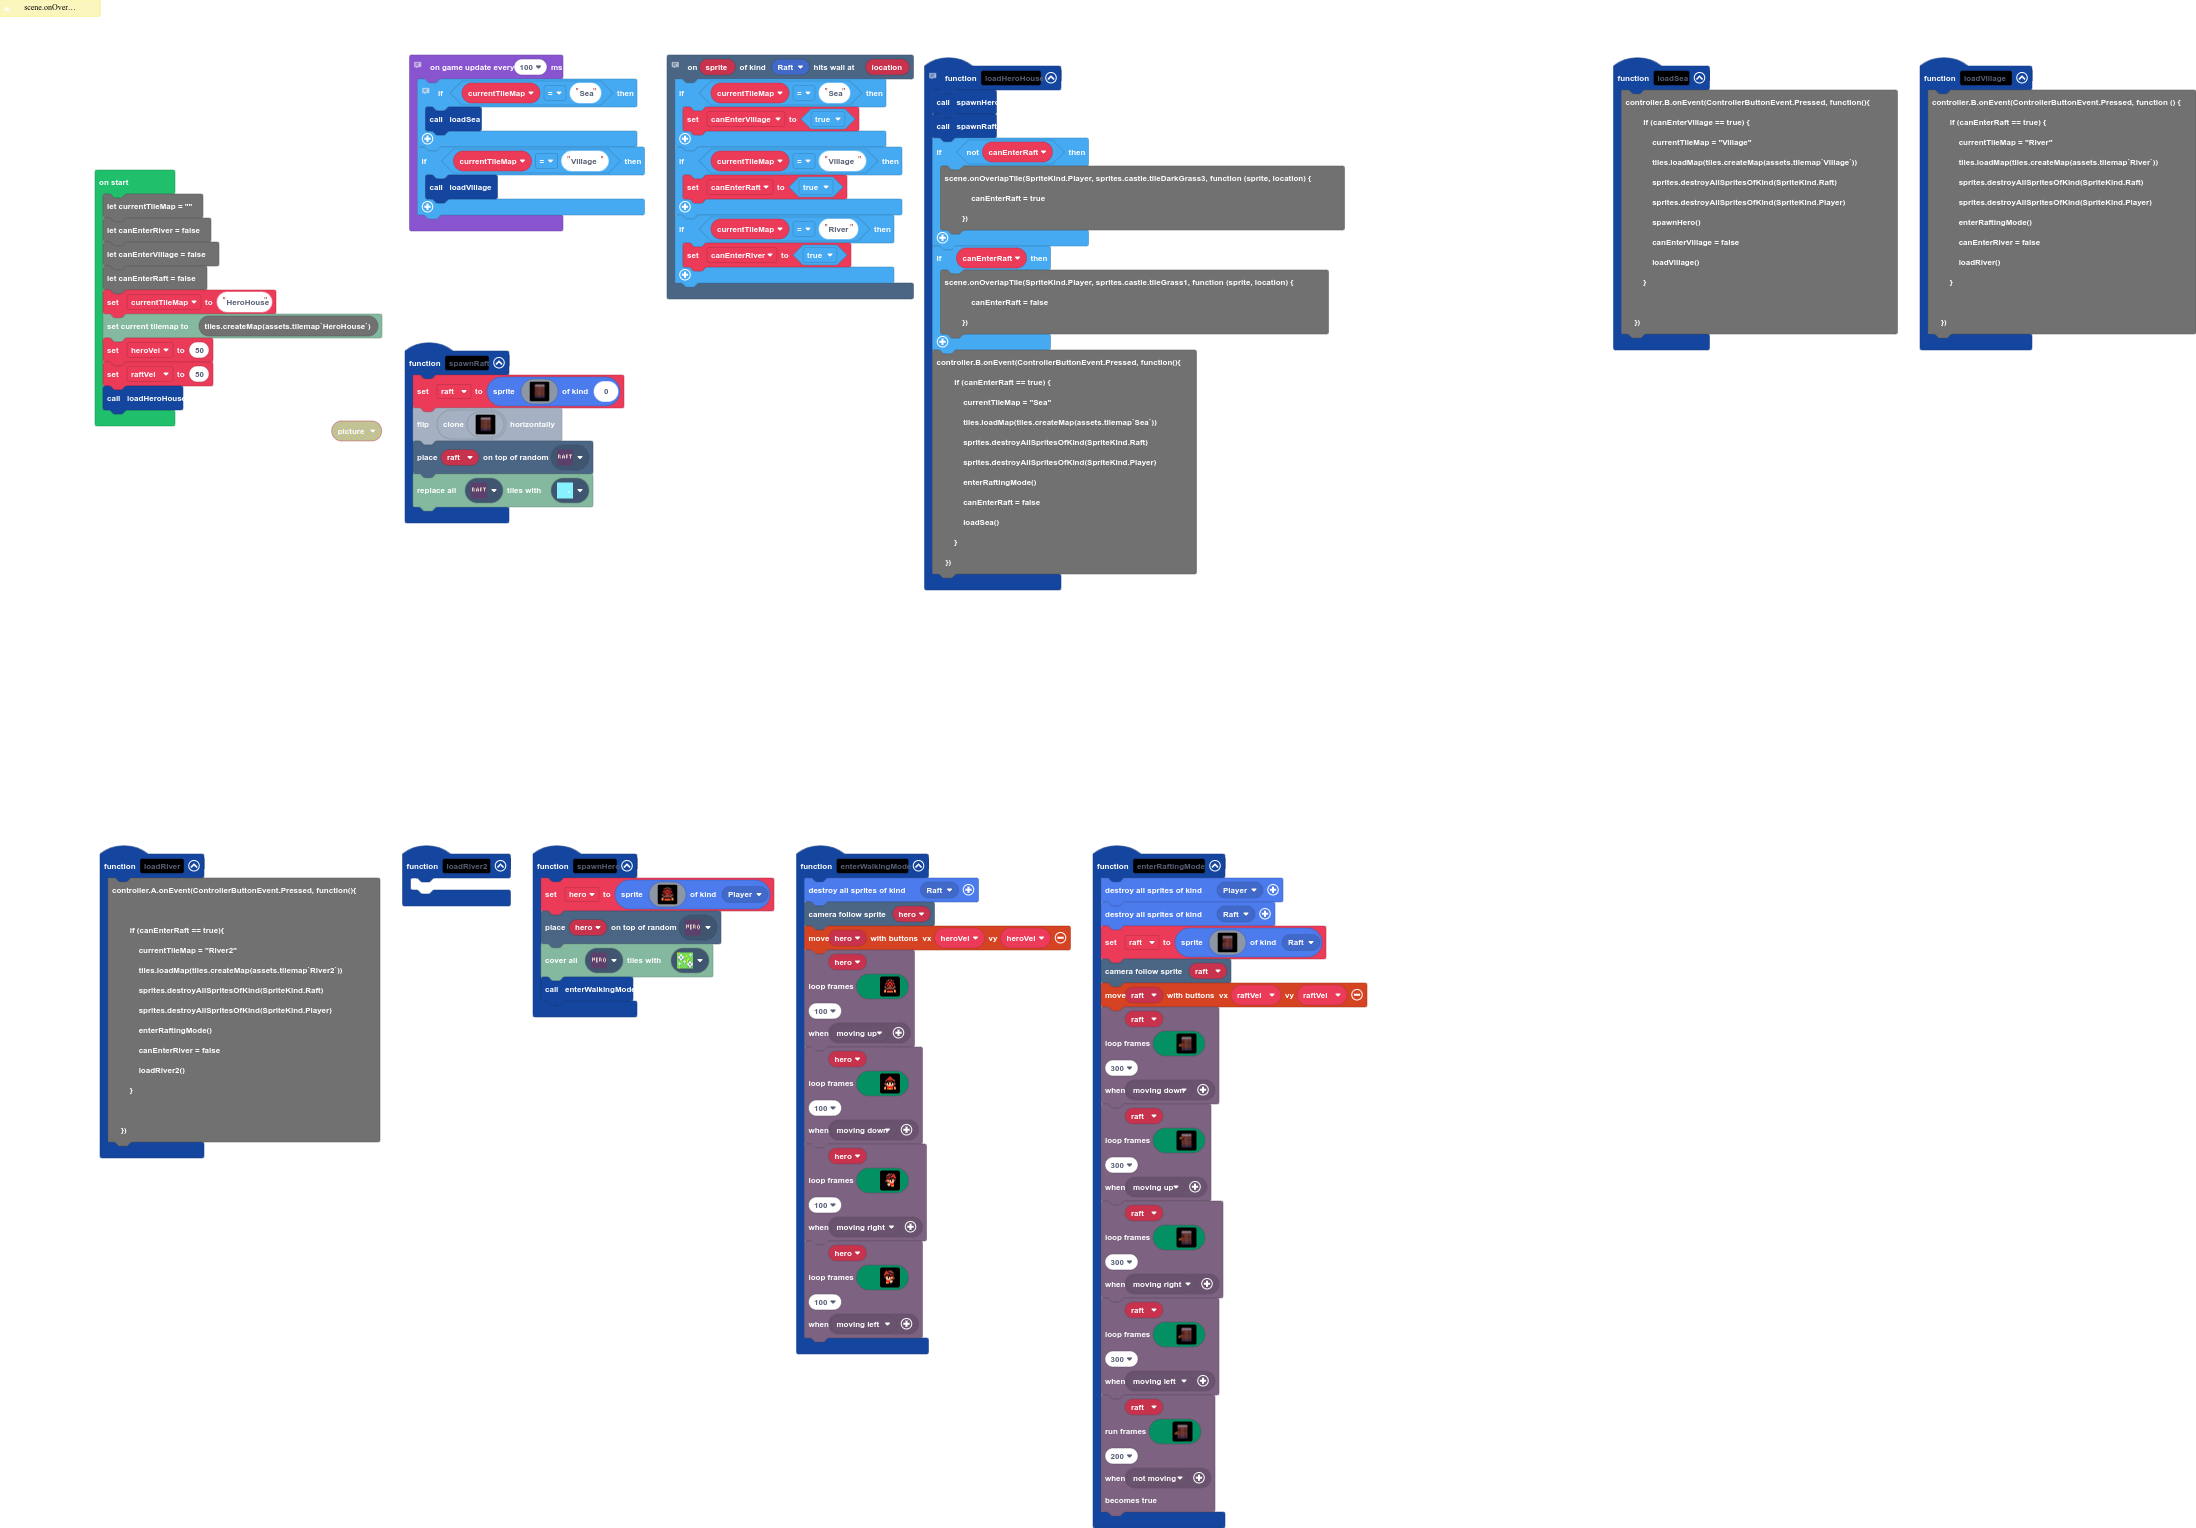
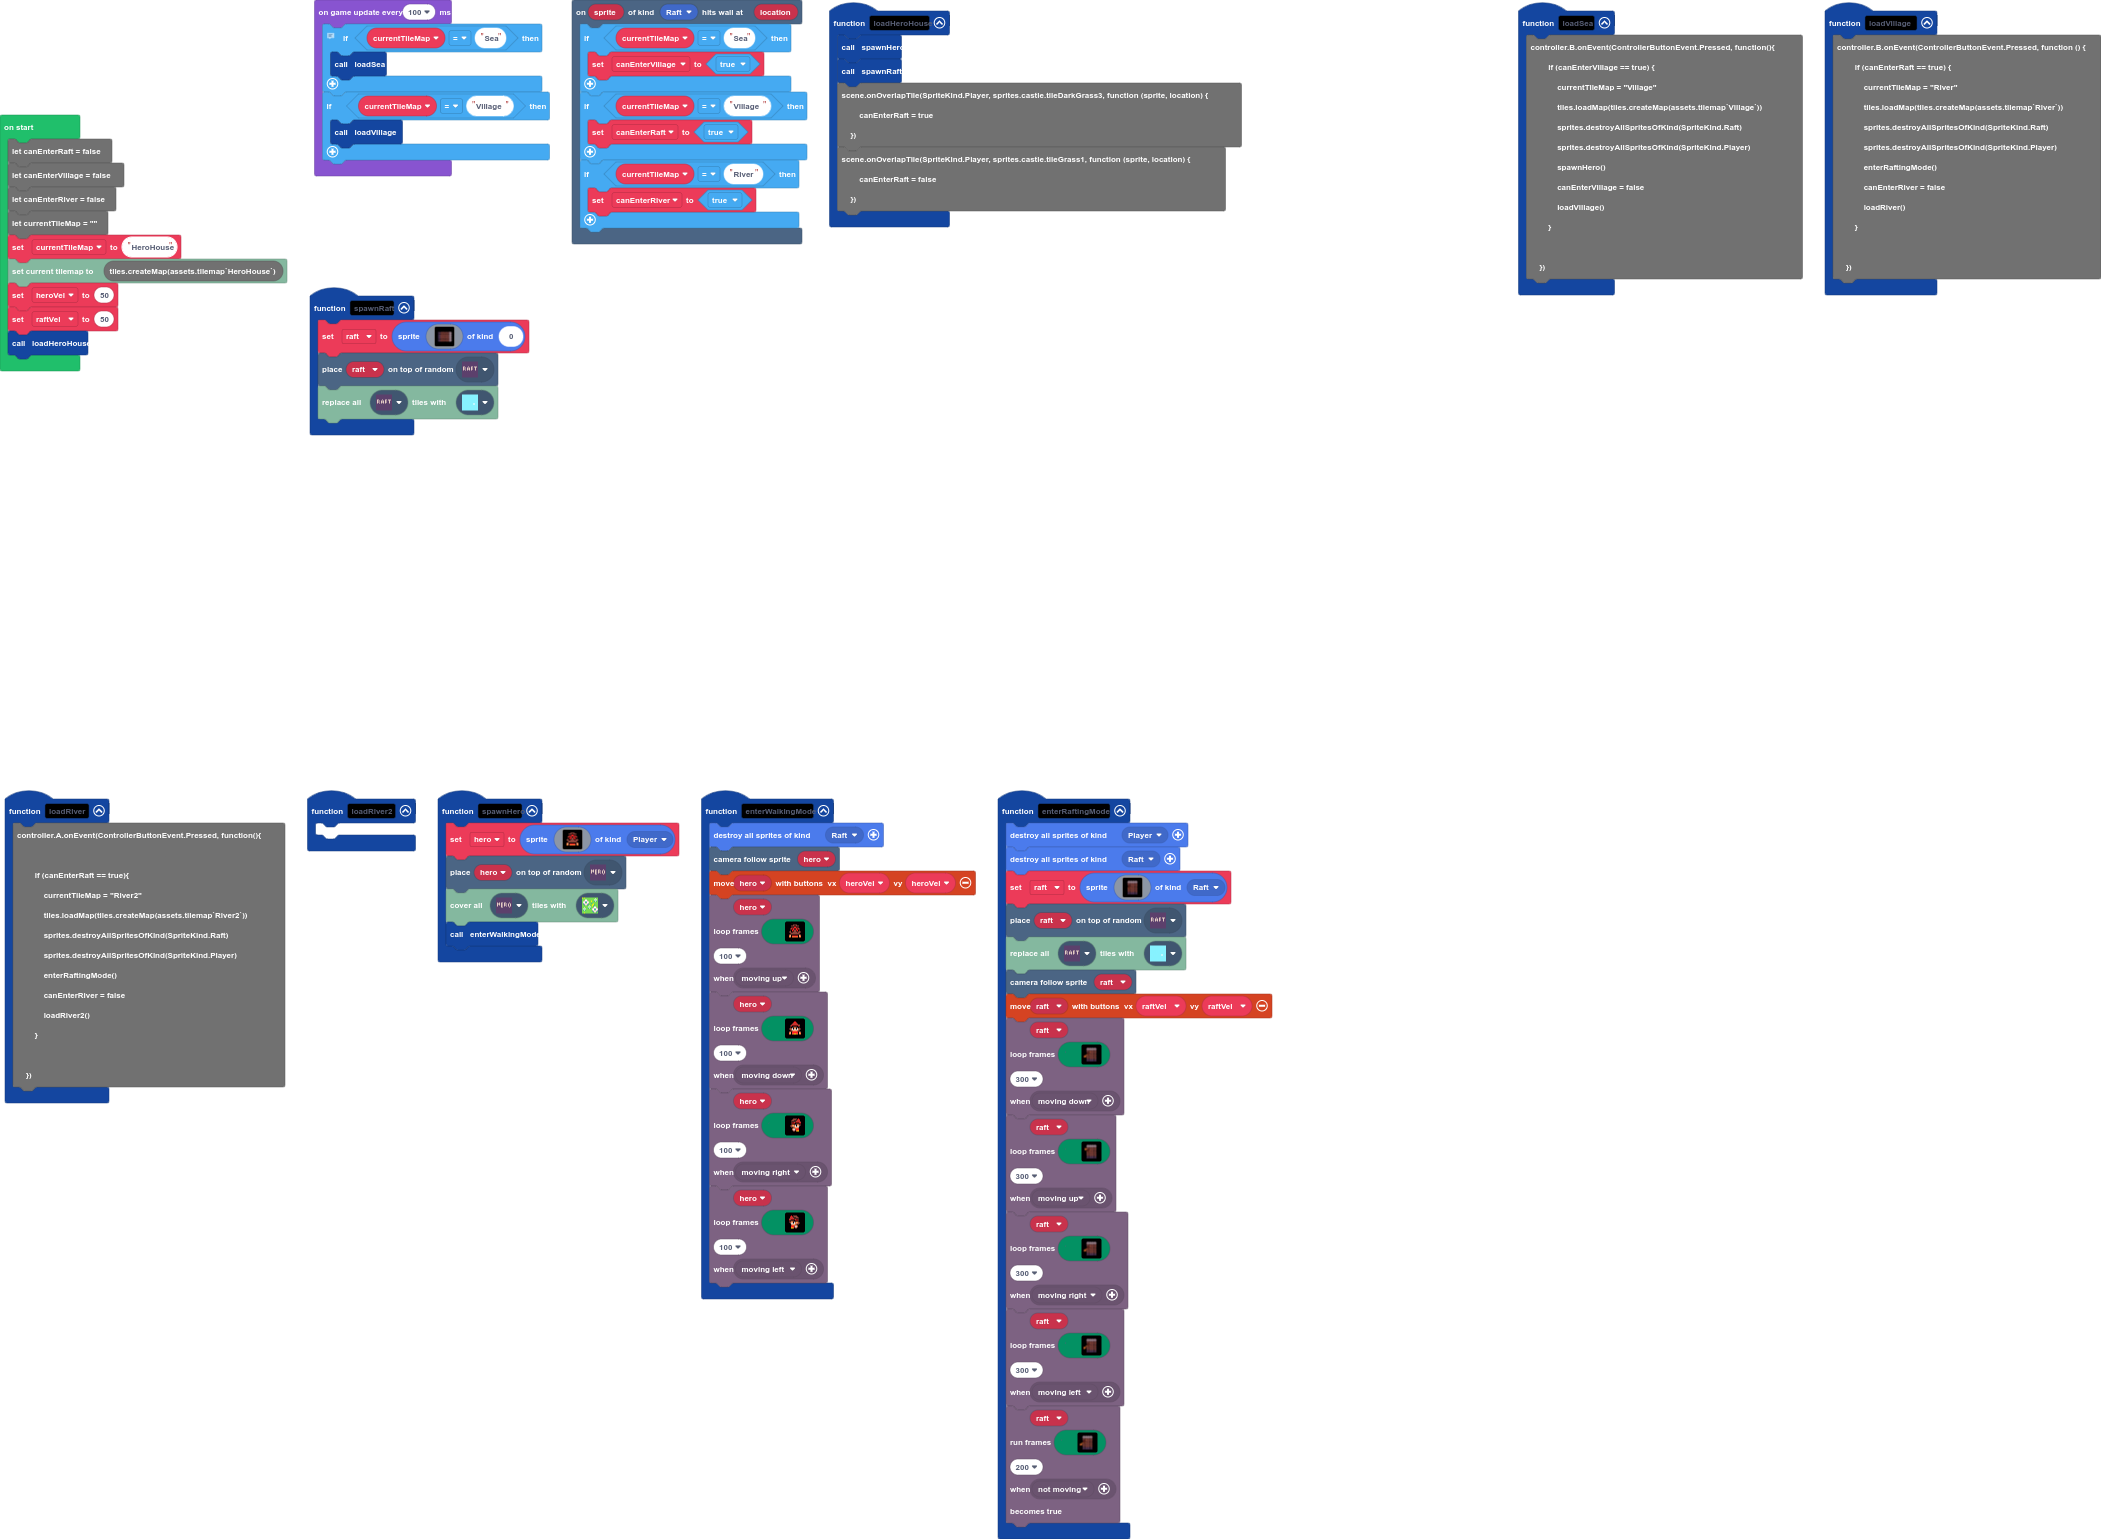
refactered hero house tilemap code

diff --git a/tilemap.g.ts b/tilemap.g.ts
@@ -62,6 +62,8 @@ namespace myTiles {
     export const tile29 = image.ofBuffer(hex``);
     //% fixedInstance jres blockIdentity=images._tile
     export const tile30 = image.ofBuffer(hex``);
+    //% fixedInstance jres blockIdentity=images._tile
+    export const tile31 = image.ofBuffer(hex``);
 
     helpers._registerFactory("tilemap", function(name: string) {
         switch(helpers.stringTrim(name)) {
@@ -317,25 +319,6 @@ namespace myTiles {
 . . . . . . . . . . . . . . . . 
 . . . . . . . . . . . . . . . . 
 `, [myTiles.transparency16], TileScale.Sixteen);
-            case "HeroHouse":
[1 lines of base64/hex data omitted]
-.....................2..........
-.....................2..........
-.....................2..........
-.....................2..........
-.....................2..........
-......................2.........
-.......................2........
-.......................2........
-.......................2........
-.......................2........
-.......................2........
-.......................2........
-.......................2........
-.......................2........
-.......................2........
-.......................2........
-`, [myTiles.transparency16,sprites.castle.tileGrass1,sprites.castle.tilePath5,tiles.util.door0,tiles.util.object0,sprites.castle.tileDarkGrass3,sprites.castle.tileGrass2,myTiles.tile1,myTiles.tile2,myTiles.tile3,myTiles.tile4,myTiles.tile5,myTiles.tile10,myTiles.tile11,myTiles.tile12,myTiles.tile14,myTiles.tile15,myTiles.tile17,myTiles.tile20,myTiles.tile13,sprites.castle.tileGrass3,myTiles.tile18,myTiles.tile19], TileScale.Sixteen);
             case "Sea":
[1 lines of base64/hex data omitted]
 ..22.........................222
@@ -403,6 +386,25 @@ namespace myTiles {
 ................................
 ................................
 `, [myTiles.transparency16,myTiles.tile1,myTiles.tile2,myTiles.tile3,myTiles.tile4,myTiles.tile5,myTiles.tile6,myTiles.tile7,myTiles.tile8,myTiles.tile9,myTiles.tile18,myTiles.tile21,myTiles.tile22,myTiles.tile23,myTiles.tile24,myTiles.tile27,myTiles.tile28,myTiles.tile29,myTiles.tile30,sprites.castle.tileDarkGrass1], TileScale.Sixteen);
+            case "HeroHouse":
[1 lines of base64/hex data omitted]
+.....................2..........
+.....................2..........
+.....................2..........
+.....................2..........
+.....................2..........
+......................2.........
+.......................2........
+.......................2........
+.......................2........
+.......................2........
+.......................2........
+.......................2........
+.......................2........
+.......................2........
+.......................2........
+.......................2........
+`, [myTiles.transparency16,sprites.castle.tileGrass1,sprites.castle.tilePath5,tiles.util.door0,tiles.util.object0,sprites.castle.tileDarkGrass3,sprites.castle.tileGrass2,myTiles.tile1,myTiles.tile2,myTiles.tile3,myTiles.tile4,myTiles.tile5,myTiles.tile10,myTiles.tile11,myTiles.tile12,myTiles.tile14,myTiles.tile15,myTiles.tile20,sprites.castle.tileGrass3,myTiles.tile18,myTiles.tile19,sprites.castle.tileDarkGrass1,myTiles.tile31], TileScale.Sixteen);
         }
         return null;
     })
@@ -470,6 +472,8 @@ namespace myTiles {
             case "tile29":return tile29;
             case "myTile28":
             case "tile30":return tile30;
+            case "myTile29":
+            case "tile31":return tile31;
         }
         return null;
     })

diff --git a/main.ts b/main.ts
@@ -2,27 +2,6 @@ namespace SpriteKind {
     export const Raft = SpriteKind.create()
     export const Trigger = SpriteKind.create()
 }
-/**
- * })
- */
-/**
- * HeroHouse()
- */
-/**
- * }
- */
-/**
- * scene.onOverlapTile(SpriteKind.Player, sprites.castle.tileDarkGrass3, function (sprite, location) {
- * 
- * canEnterRaft = true
- * 
- * })
- */
-// controller.A.onEvent(ControllerButtonEvent.Pressed, function () {
-// 
-// enterRaftingMode()
-// 
-// })
 scene.onHitWall(SpriteKind.Raft, function (sprite, location) {
     if (currentTileMap == "Sea") {
         canEnterVillage = true
@@ -34,6 +13,16 @@ scene.onHitWall(SpriteKind.Raft, function (sprite, location) {
         canEnterRiver = true
     }
 })
+
+
+scene.onOverlapTile(SpriteKind.Player, sprites.castle.tileDarkGrass3, function (sprite, location) {
+    canEnterRaft = true
+})
+scene.onOverlapTile(SpriteKind.Player, sprites.castle.tileGrass1, function (sprite, location) {
+    canEnterRaft = false
+})
+
+
 function loadRiver2 () {
 	
 }
@@ -66,26 +55,12 @@ function loadRiver () {
 
     })
 }
-// scene.onOverlapTile(SpriteKind.Player, sprites.castle.tileGrass1, function (sprite, location) {
-// 
-// canEnterRaft = false
-// 
-// })
 function loadHeroHouse () {
     spawnHero()
     spawnRaft()
-    if (!(canEnterRaft)) {
-        scene.onOverlapTile(SpriteKind.Player, sprites.castle.tileDarkGrass3, function (sprite, location) {
-            canEnterRaft = true
-        })
-    }
-    if (canEnterRaft) {
-        scene.onOverlapTile(SpriteKind.Player, sprites.castle.tileGrass1, function (sprite, location) {
-            canEnterRaft = false
-        })
-    }
-    controller.B.onEvent(ControllerButtonEvent.Pressed, function(){ 
-        if (canEnterRaft == true) {
+
+    controller.B.onEvent(ControllerButtonEvent.Pressed, function(){
+        if (canEnterRaft == true){ 
             currentTileMap = "Sea"
             tiles.loadMap(tiles.createMap(assets.tilemap`Sea`))
             sprites.destroyAllSpritesOfKind(SpriteKind.Raft)
@@ -118,14 +93,10 @@ function spawnHero () {
 }
 function spawnRaft () {
     raft = sprites.create(assets.image`RaftFlippedRight`, 0)
-    
-    // raft = sprites.create(assets.image`Raft`.clone().flipX(90), 0)
-
     tiles.placeOnRandomTile(raft, assets.tile`myTile16`)
     tiles.replaceAllTiles(assets.tile`myTile16`, assets.tile`myTile3`)
 }
 function enterWalkingMode () {
-    
     sprites.destroyAllSpritesOfKind(SpriteKind.Raft)
     scene.cameraFollowSprite(hero)
     controller.moveSprite(hero, heroVel, heroVel)
@@ -1054,16 +1025,15 @@ let raft: Sprite = null
 let hero: Sprite = null
 let raftVel = 0
 let heroVel = 0
-let currentTileMap = ""
-let canEnterRiver = false
-let canEnterVillage = false
 let canEnterRaft = false
+let canEnterVillage = false
+let canEnterRiver = false
+let currentTileMap = ""
 currentTileMap = "HeroHouse"
 tiles.loadMap(tiles.createMap(assets.tilemap`HeroHouse`))
 heroVel = 50
 raftVel = 50
 loadHeroHouse()
-// game.onUpdateInterval(500, function(){
 game.onUpdateInterval(100, function () {
     // if (currentTileMap == "HeroHouse") {
     // loadHeroHouse()
